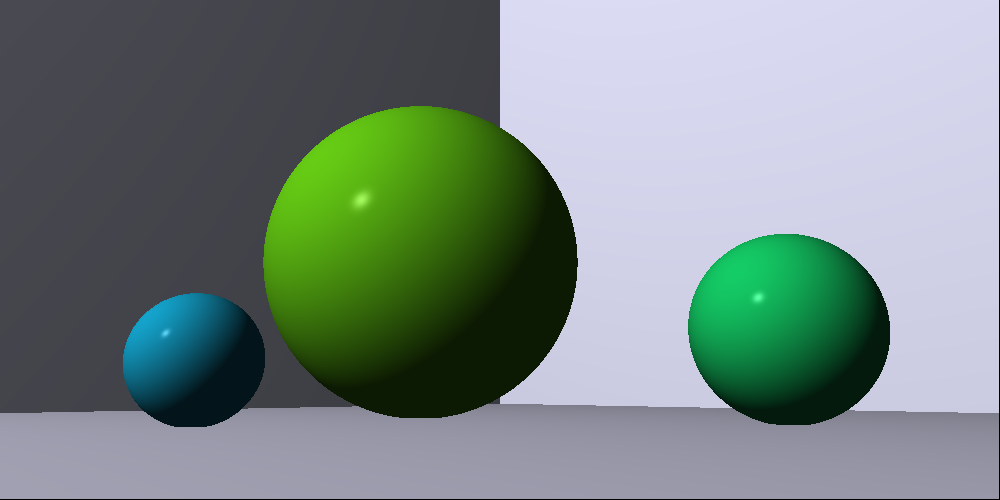
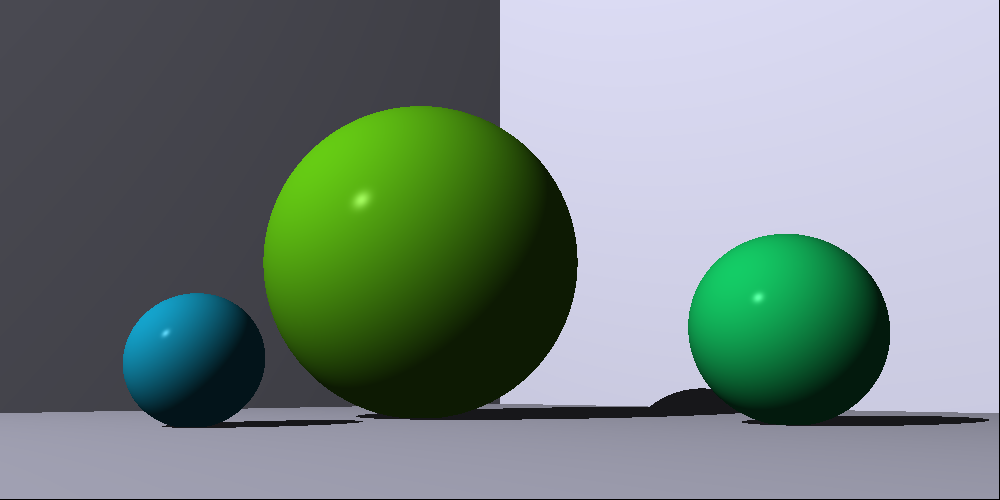
missed picture

Changed region(s): [[0.186, 0.78, 0.744, 0.87], [0.806, 0.81, 0.992, 0.87], [0.744, 0.84, 0.775, 0.87]]

diff --git a/ray_tracer/world.py b/ray_tracer/world.py
@@ -2,6 +2,7 @@ from ray_tracer.colors import Color, BLACK
 from ray_tracer.intersections import Intersections, intersect, hit, prepare_computations
 from ray_tracer.lights import point_light
 from ray_tracer.material import lighting
+from ray_tracer.rays import Ray
 from ray_tracer.sphere import Sphere
 from ray_tracer.transformations import Scaling
 from ray_tracer.tuples import Point
@@ -24,12 +25,14 @@ class World():
         return intersections
 
     def shade_hit(self, comps):
+        shadowed = is_shadowed(self, comps.over_point)
         return lighting(
             comps.object.material,
             self.light,
             comps.point,
             comps.eyev,
-            comps.normalv)
+            comps.normalv,
+            shadowed)
 
     def color_at(self, ray):
         intersections = intersect_world(self, ray)
@@ -38,6 +41,12 @@ class World():
             return BLACK
         comps = prepare_computations(a_hit, ray)
         return shade_hit(self, comps)
+
+    def add_object(self, object_):
+        if self.objects is None:
+            self.objects = [object_]
+        else:
+            self.objects.append(object_)
 
 
 def default_world():
@@ -63,3 +72,18 @@ def shade_hit(world, comps):
 
 def color_at(world, ray):
     return world.color_at(ray)
+
+
+def is_shadowed(world, point):
+    v = world.light.position - point
+    distance = v.magnitude()
+    direction = v.normalize()
+
+    r = Ray(point, direction)
+    intersections = intersect_world(world, r)
+
+    h = hit(intersections)
+    if h is not None and h.t < distance:
+        return True
+    else:
+        return False

diff --git a/unit_tests/steps/materials_step_impls.py b/unit_tests/steps/materials_step_impls.py
@@ -1,4 +1,8 @@
+from behave import register_type, given, when
+from parse_type import TypeBuilder
+
 from ray_tracer.material import Material, lighting
+
 
 @given(u'{m} = Material()')
 def step_impl(context, m):
@@ -6,13 +10,27 @@ def step_impl(context, m):
     setattr(context, m, _m)
 
 
-@when(u'{result} = lighting({material}, {light}, {position}, {eyev}, {normalv})')
-def step_impl(context, result, material, light, position, eyev, normalv):
+    
+
+parse_bool = TypeBuilder.make_enum({"True": True, "False": False})
+register_type(BoolType=parse_bool)
+
+
+@when(u'{result} = lighting({material}, {light}, {position}, {eyev}, {normalv}, {in_shadow:BoolType})')
+def step_impl(context, result, material, light, position, eyev, normalv, in_shadow):
     _material = getattr(context, material)
     _light = getattr(context, light)
     _position = getattr(context, position)
     _eyev = getattr(context, eyev)
     _normalv = getattr(context, normalv)
 
-    _result = lighting(_material, _light, _position, _eyev, _normalv)
+    _result = lighting(_material, _light, _position, _eyev, _normalv, in_shadow)
     setattr(context, result, _result)
+
+
+@when(u'{result} = lighting({material}, {light}, {position}, {eyev}, {normalv})')
+def step_impl(context, result, material, light, position, eyev, normalv):
+    context.execute_steps(f"when {result} = lighting({material}, {light}, {position}, {eyev}, {normalv}, False)")
+
+
+

diff --git a/unit_tests/steps/world_step_impls.py b/unit_tests/steps/world_step_impls.py
@@ -5,8 +5,8 @@ from behave import given, when, then, step
 
 from ray_tracer.colors import Color
 from ray_tracer.sphere import Sphere
-from ray_tracer.transformations import Scaling  # noqa
-from ray_tracer.world import World, default_world, intersect_world, shade_hit, color_at
+from ray_tracer.transformations import Scaling, Translation  # noqa
+from ray_tracer.world import World, default_world, intersect_world, shade_hit, color_at, is_shadowed
 
 @given(u'{w} = World()')
 def step_impl(context, w):
@@ -92,3 +92,24 @@ def step_impl(context, c, w, r):
     _r = getattr(context, r)
     _c = color_at(_w, _r)
     setattr(context, c, _c)
+
+
+@then(u'is_shadowed({w}, {p}) is false')
+def step_impl(context, w, p):
+    _w = getattr(context, w)
+    _p = getattr(context, p)
+    assert not is_shadowed(_w, _p)
+
+
+@then(u'is_shadowed({w}, {p}) is true')
+def step_impl(context, w, p):
+    _w = getattr(context, w)
+    _p = getattr(context, p)
+    assert is_shadowed(_w, _p)
+
+
+@given(u'{s} is added to {world}')
+def step_impl(context, s, world):
+    _s = getattr(context, s)
+    _world = getattr(context, world)
+    _world.add_object(_s)

diff --git a/unit_tests/steps/interesections_step_impls.py b/unit_tests/steps/interesections_step_impls.py
@@ -1,7 +1,7 @@
 from behave import register_type
 from parse_type import TypeBuilder
 
-from ray_tracer.intersections import Intersection, Intersections, hit, prepare_computations
+from ray_tracer.intersections import Intersection, Intersections, hit, prepare_computations, EPSILON
 from ray_tracer.rays import Ray
 
 
@@ -44,3 +44,16 @@ def step_impl(context, comps, i, r):
 
     _comps = prepare_computations(_i, _r)
     setattr(context, comps, _comps)
+
+
+@then(u'comps.over_point.z < -EPSILON/2')
+def step_impl(context):
+    _comps = getattr(context, "comps")
+    assert _comps.over_point.z < - EPSILON/2
+
+
+
+@then(u'comps.point.z > comps.over_point.z')
+def step_impl(context):
+    _comps = getattr(context, "comps")
+    assert _comps.point.z > _comps.over_point.z

diff --git a/ray_tracer/material.py b/ray_tracer/material.py
@@ -13,7 +13,7 @@ class Material:
     shininess: float = 200.0
 
 
-def lighting(material, light, point, eyev, normalv):
+def lighting(material, light, point, eyev, normalv, in_shadow=False):
     # combine the surface color with the light's color/intensity
     effective_color = material.color * light.intensity
 
@@ -47,6 +47,8 @@ def lighting(material, light, point, eyev, normalv):
             factor = pow(reflect_dot_eye, material.shininess)
             specular = light.intensity * material.specular * factor
 
-    # Add the three contributions together to get the final shading
+    if in_shadow:
+        return ambient
 
+    # Add the three contributions together to get the final shading
     return ambient + diffuse + specular

diff --git a/ray_tracer/intersections.py b/ray_tracer/intersections.py
@@ -61,6 +61,9 @@ def intersect(sphere, ray):
     return Intersections(Intersection(t1, sphere), Intersection(t2, sphere))
 
 
+EPSILON = 1e-5
+
+
 class Computations:
     def __init__(self, intersection, ray):
         self.intersection = intersection
@@ -75,6 +78,8 @@ class Computations:
             self.normalv = - self.normalv
         else:
             self.inside = False
+        
+        self.over_point = self.point + self.normalv * EPSILON
 
     @property
     def t(self):

diff --git a/README.md b/README.md
@@ -9,3 +9,5 @@
 ![](putting_all_together/chap5.png)
 
 ![](putting_all_together/chap6.png)
+
+![](putting_all_together/chap7.png)
